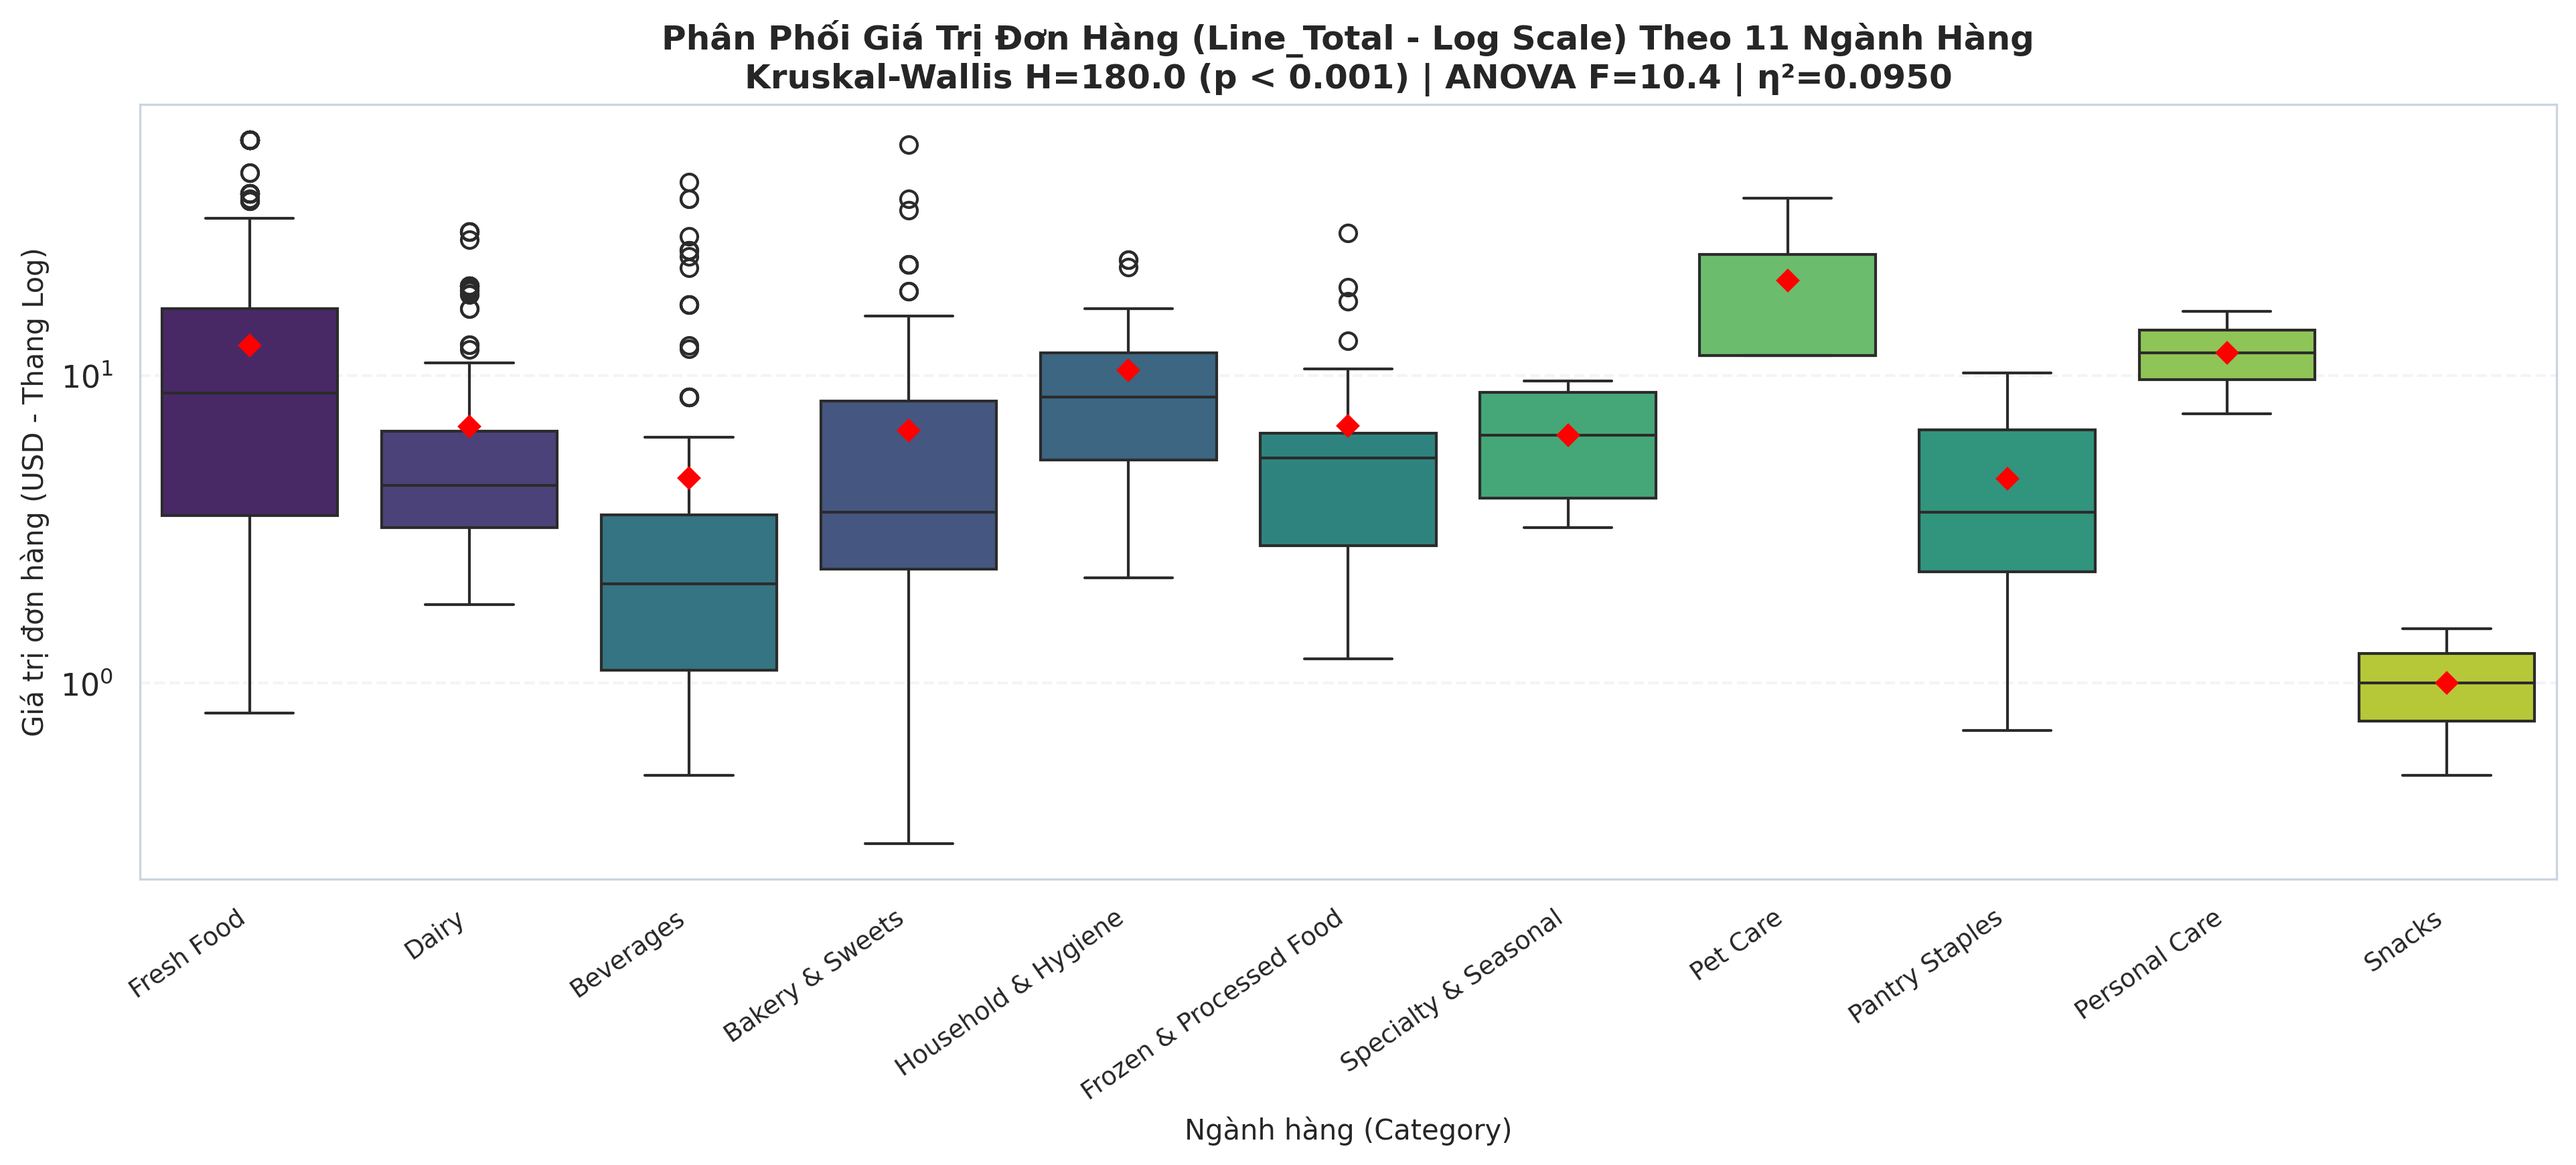
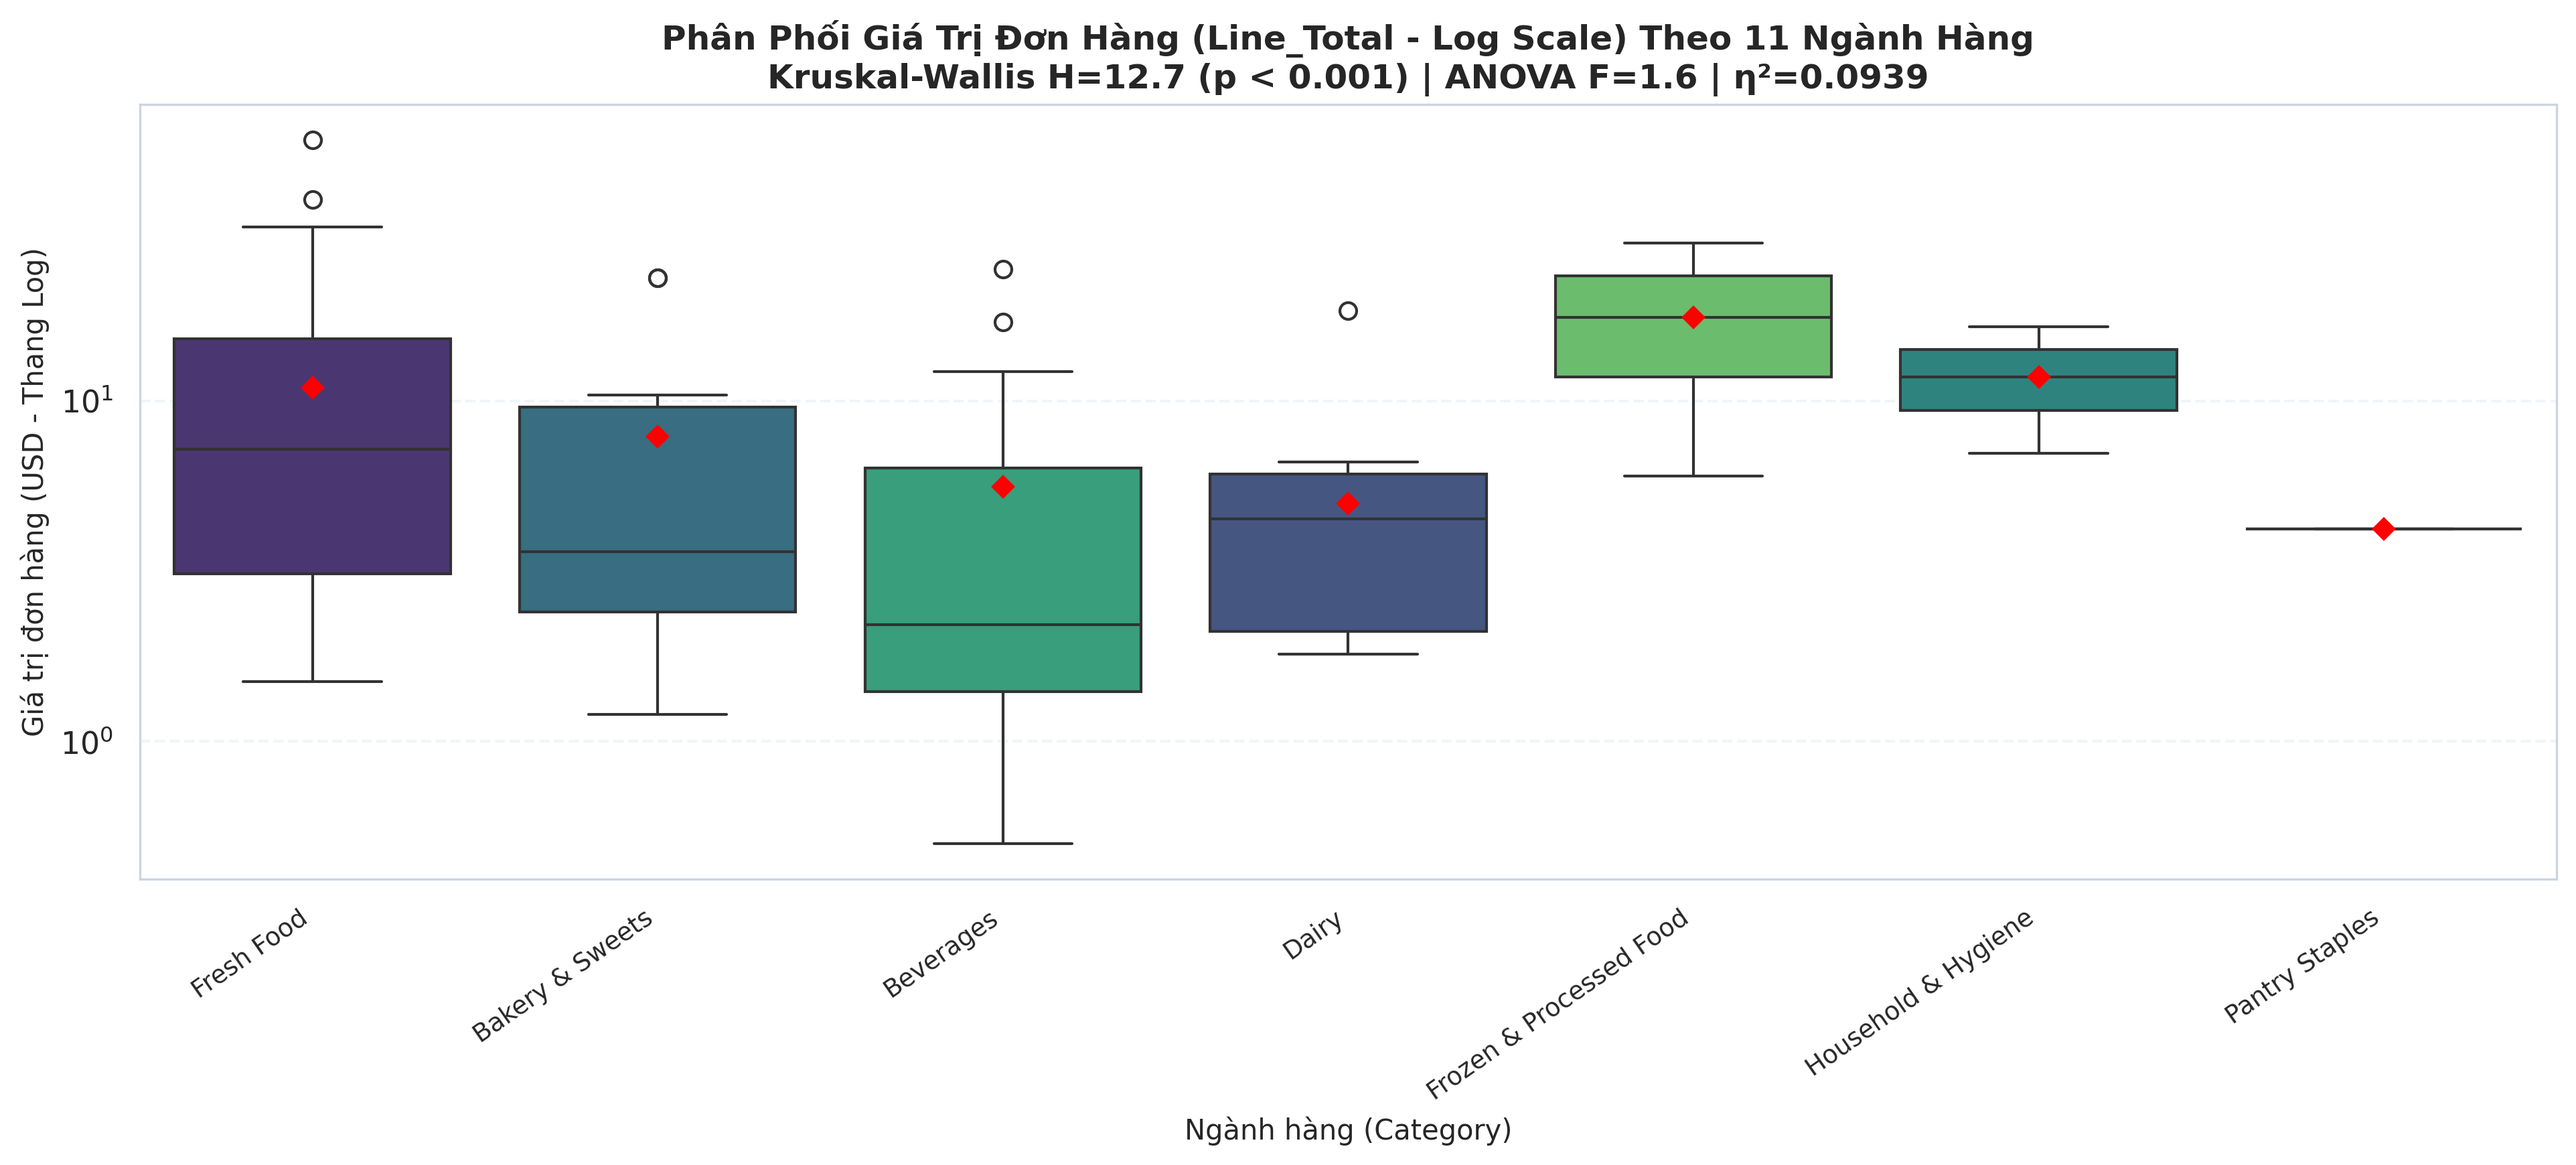
refactor: isolate cloud runners into cloud/, optimize local debug to N=100 and standardize uv

diff --git a/src/eda_findings.py b/src/eda_findings.py
@@ -90,7 +90,7 @@ def run_eda_pipeline(data_dir: str = None, s3_bucket: str = None, output_img_dir
             raise FileNotFoundError(f"Không tìm thấy file Transactions.csv hoặc Products_with_Categories.csv tại {data_dir}")
 
     print(f"🖼 Thư mục ảnh xuất: {output_img_dir}")
-    print(f"⚙ Chế độ thực thi: {'--debug (Micro-sampling N=1000)' if debug else 'Chạy Full 100% dữ liệu'}")
+    print(f"⚙ Chế độ thực thi: {'--debug (Micro-sampling N=100)' if debug else 'Chạy Full 100% dữ liệu'}")
     print("=" * 70)
 
     os.makedirs(output_img_dir, exist_ok=True)
@@ -102,8 +102,8 @@ def run_eda_pipeline(data_dir: str = None, s3_bucket: str = None, output_img_dir
 
     raw_tx_len = len(df_tx)
     if debug:
-        print(f"   [Debug Mode] Lấy mẫu micro-sampling 1.000 dòng từ {raw_tx_len:,} dòng gốc.")
-        df_tx = df_tx.head(1000).copy()
+        print(f"   [Debug Mode] Lấy mẫu micro-sampling 100 dòng từ {raw_tx_len:,} dòng gốc.")
+        df_tx = df_tx.head(100).copy()
 
     # Chuẩn hóa cột Ngày tháng phục vụ phân tích
     df_tx["Date_dt"] = pd.to_datetime(df_tx["Date"], format="%d-%m-%Y")

diff --git a/cloud/submit_eda.py b/cloud/submit_eda.py
@@ -45,7 +45,7 @@ def submit_eda_processing_job(debug: bool = False):
     print(f"🛡 SageMaker Role   : {SAGEMAKER_ROLE_ARN}")
     print(f"📦 Container Image  : {SKLEARN_IMAGE_URI}")
     print(f"⚡ Package Manager  : uv (Astral Rust Package Manager - Ultra Fast)")
-    print(f"⚙ Chế độ thực thi  : {'--debug (Smoke Test 1.000 dòng)' if debug else 'Chạy Full 100% Lakehouse'}")
+    print(f"⚙ Chế độ thực thi  : {'--debug (Smoke Test 100 dòng)' if debug else 'Chạy Full 100% Lakehouse'}")
     print("=" * 80)
 
     s3 = boto3.client("s3", region_name=AWS_REGION)
@@ -201,7 +201,7 @@ def submit_eda_processing_job(debug: bool = False):
 
 if __name__ == "__main__":
     parser = argparse.ArgumentParser(description="Submit SageMaker Processing Job from Local (Dedicated Cloud Runner)")
-    parser.add_argument("--debug", action="store_true", help="Chạy thử nghiệm nhanh (Smoke Test) với 1.000 dòng")
+    parser.add_argument("--debug", action="store_true", help="Chạy thử nghiệm nhanh (Smoke Test) với 100 dòng")
     args = parser.parse_args()
 
     submit_eda_processing_job(debug=args.debug)
